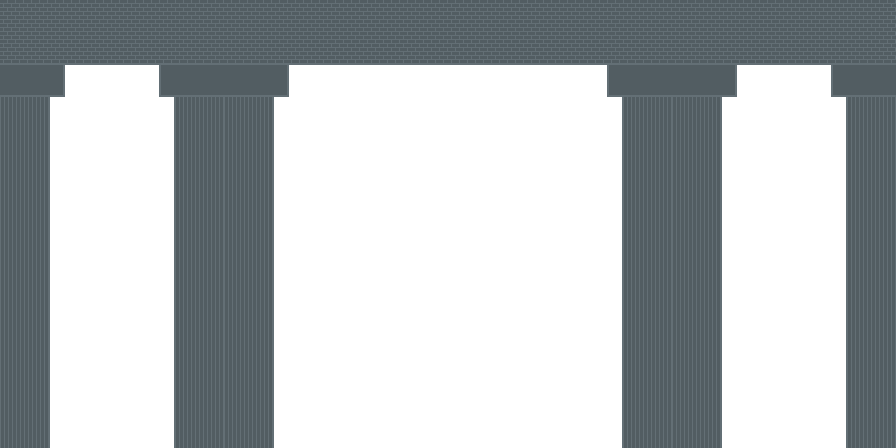
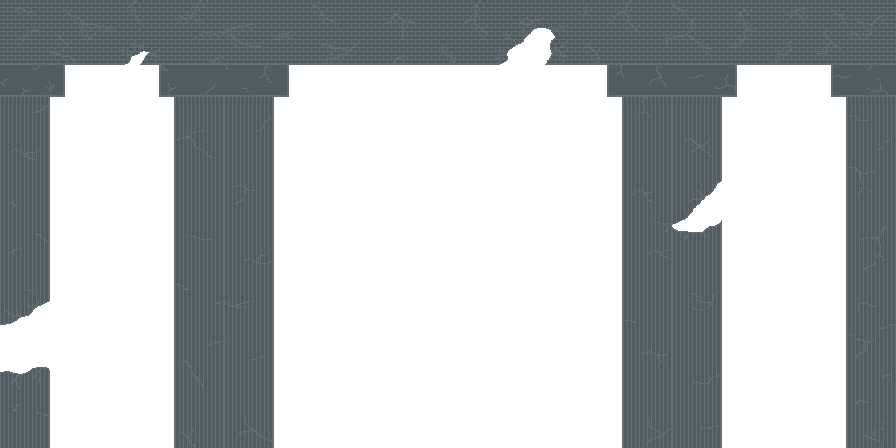
Des changement avec les décors

diff --git a/src/scenes/Niveau2.js b/src/scenes/Niveau2.js
@@ -8,6 +8,7 @@ class Niveau2 extends Tableau
         this.load.image('plafond', 'assets/plafond.png');
         this.load.image('secondPlan', 'assets/second-plan.png');
         this.load.image('dernierPlan', 'assets/dernier-plan.png');
+        this.load.image('sky-2', 'assets/sky-2.jpg');
 
         this.load.image('star', 'assets/Coffre.png');
         this.load.image('pixel', 'assets/pixel.png');
@@ -129,21 +130,30 @@ class Niveau2 extends Tableau
     {
          super.update();
         // //le fond se déplace moins vite que la caméra pour donner un effet paralax
-        // this.dernierPlan.tilePositionX = this.cameras.main.scrollX * 0.4;
-        // this.dernierPlan.tilePositionY = this.cameras.main.scrollY * 0.15;
+        this.dernierPlan.tilePositionX = this.cameras.main.scrollX * 0.1;
+        this.dernierPlan.tilePositionY = this.cameras.main.scrollY * 0.1;
 
         //le second plan se déplace moins vite pour accentuer l'effet
-        this.secondPlan.tilePositionX = this.cameras.main.scrollX * 0.2;
-        this.secondPlan.tilePositionY = this.cameras.main.scrollY * 0.1;
+        this.secondPlan.tilePositionX = this.cameras.main.scrollX * 0.15;
+        this.secondPlan.tilePositionY = this.cameras.main.scrollY * 0.05;
 
         //le premier plan se déplace moins vite pour accentuer l'effet
-        this.plafond.tilePositionX = this.cameras.main.scrollX * 0.3;
-        this.plafond.tilePositionY = this.cameras.main.scrollY * 0.2;
+        this.plafond.tilePositionX = this.cameras.main.scrollX * 0.2;
+        this.plafond.tilePositionY = this.cameras.main.scrollY * 0.1;
     }
 
     initDecor()
     {
-        //on change de ciel, on fait une tileSprite ce qui permet d'avoir une image qui se répète
+        this.sky = this.add.tileSprite(
+            0,
+            0,
+            this.sys.canvas.width,
+            this.sys.canvas.height,
+            'sky-2'
+        );
+        this.sky.setOrigin(0,0);
+        this.sky.setScrollFactor(0);
+
         this.dernierPlan = this.add.tileSprite(
             0,
             0,
@@ -164,7 +174,6 @@ class Niveau2 extends Tableau
         );
         this.secondPlan.setScrollFactor(0);
         this.secondPlan.setOrigin(0,0);
-        //this.sky.tileScaleX=this.sky.tileScaleY=0.8;
 
         this.plafond=this.add.tileSprite(
             0,

diff --git a/src/scenes/structure/Tableau.js b/src/scenes/structure/Tableau.js
@@ -23,17 +23,10 @@ class Tableau extends Phaser.Scene
         this.load.image('blood', 'assets/blood.png');
 
         //SPRITES ENTITES
-        this.load.spritesheet('player',
-            'assets/DA_player_platformer.png',
-            { frameWidth: 37.5, frameHeight: 45  }
-        );
-        this.load.spritesheet('player_plus',
-            'assets/anime_file.png',
-            { frameWidth: 567, frameHeight: 338  }
-        );
-
-        this.load.spritesheet('torche', 'assets/torche-sheet.png',
-            {frameHeight : 64, frameWidth : 64});
+        this.load.spritesheet('player', 'assets/DA_player_platformer.png', {frameWidth: 37.5, frameHeight: 45});
+        this.load.spritesheet('player_plus','assets/anime_file.png', {frameWidth: 567, frameHeight: 338});
+        this.load.spritesheet('torche', 'assets/torche-sheet.png', {frameHeight : 64, frameWidth : 64});
+    
         this.load.image('Ennemi1', 'assets/ennemi1.png');
 
         //des petits sons pour le lol

diff --git a/main.js b/main.js
@@ -12,7 +12,7 @@ let config = {
         arcade: 
         {
             gravity: { y: 100*9 },
-            debug: true,
+            debug: false,
         }
     },
     scene: [
